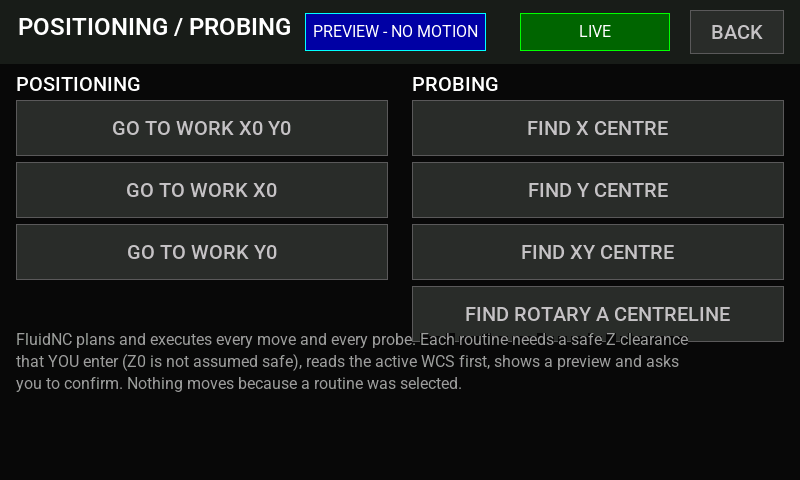
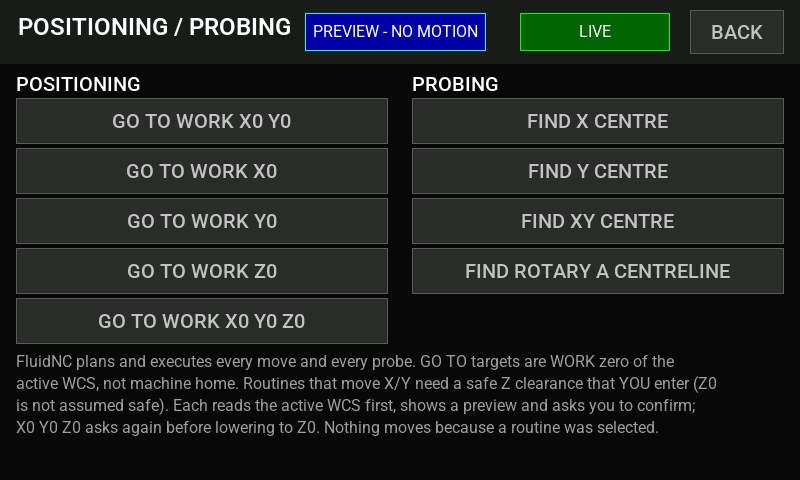
Built-in positioning: GO TO WORK Z0 and X0 Y0 Z0 (Instruction 011A)
New routines in the existing workflow (work coordinates of the selected
G54..G59 system, never machine home; no work offset written; A never sent):
- GO TO WORK Z0: its own CONFIRM before the single Z move; no clearance needed.
- GO TO WORK X0 Y0 Z0: separately entered clearance height above Z0, raise,
  CONTINUE, X/Y move, a SECOND confirmation, then Z0 (three separate commands).
- GO TO WORK X0, Y0 and X0 Y0 retained unchanged.

Positioning page: nine non-overlapping buttons (five positioning, four probing),
text updated. Tests (341 workflow checks) cover G55 with a non-zero G54, nothing
moving before each confirmation, exact commands, untouched offsets/XY/A,
clearance refusals and cancel at the second pause. Renderer: hitboxes and label
widths checked; preview frames added.

Ordinary firmware remains motion-disabled; the full-control image was not
flashed; nothing was transmitted to a controller.

Changed region(s): [[0.0, 0.1875, 1.0, 0.9062]]

diff --git a/test/host/test_jc_workflow.cpp b/test/host/test_jc_workflow.cpp
@@ -170,6 +170,74 @@ static void test_goto() {
     CHECK(b.count("G21 G90 G0 Y0.000") == 1);
 }
 
+// Instruction 011A: GO TO WORK Z0 and GO TO WORK X0 Y0 Z0 (work coordinates of the selected WCS, never machine home).
+static void test_goto_z_and_xyz() {
+    // Z0 alone: no clearance needed, its own confirmation before the move, nothing but a Z word is sent.
+    Rig z;
+    z.nc.wcs = 1;                                                      // G55 selected
+    z.nc.off[1][0] = 30; z.nc.off[1][1] = 40; z.nc.off[1][2] = -10;
+    z.nc.off[0][2] = 123.0f;                                           // G54 must stay untouched
+    z.nc.m[0] = 90; z.nc.m[1] = 100; z.nc.m[2] = 5;                    // work (60, 60, 15) in G55
+    JcWfParams q;                                                      // no clearance set
+    CHECK(z.prepare(JcWfKind::GoToZ, q));
+    CHECK(z.wf.state() == JcWfState::Planned && z.wf.wcs() == 1);
+    CHECK(z.moves_sent() == 0);
+    CHECK(z.wf.start(z.nc.now));
+    z.go();
+    CHECK(z.wf.state() == JcWfState::WaitOperator);
+    CHECK(z.moves_sent() == 0);                                         // waits for the operator first
+    z.run(2000);
+    CHECK(z.moves_sent() == 0);
+    z.wf.continue_after_pause(z.nc.now);
+    z.go();
+    CHECK(z.wf.state() == JcWfState::Done);
+    CHECK(z.moves_sent() == 1 && z.count("G21 G90 G0 Z0.000") == 1);
+    NEAR(z.nc.work(2), 0.0f, 0.06f); NEAR(z.nc.work(0), 60.0f, 0.06f); NEAR(z.nc.work(1), 60.0f, 0.06f);   // X / Y untouched
+    NEAR(z.nc.off[0][2], 123.0f, 0.0001f); NEAR(z.nc.off[1][2], -10.0f, 0.0001f);                            // offsets untouched
+    for (const std::string& t : z.sent_log) CHECK(t.find("G53") == std::string::npos && t.find("G92") == std::string::npos && t.find("G10") == std::string::npos && t.find('A') == std::string::npos && t.find("$H") == std::string::npos);
+
+    // XYZ: clearance first, XY, then a SECOND confirmation before Z0.
+    Rig r;
+    r.nc.off[0][0] = 10; r.nc.off[0][1] = 20; r.nc.off[0][2] = -5;
+    r.nc.m[0] = 70; r.nc.m[1] = 80; r.nc.m[2] = -5;                    // work (60, 60, 0)
+    JcWfParams p = base_params();                                      // clearance 20
+    CHECK(r.prepare(JcWfKind::GoToXYZ, p));
+    CHECK(r.moves_sent() == 0);
+    CHECK(r.wf.start(r.nc.now));
+    r.go();
+    CHECK(r.wf.state() == JcWfState::WaitOperator);                    // wait 1: clearance reached
+    CHECK(r.count("G21 G90 G0 Z20.000") == 1 && r.moves_sent() == 1);
+    r.wf.continue_after_pause(r.nc.now);
+    r.go();
+    CHECK(r.wf.state() == JcWfState::WaitOperator);                    // wait 2: XY done, Z0 NOT yet sent
+    CHECK(r.count("G21 G90 G0 X0.000 Y0.000") == 1);
+    CHECK(r.count("G21 G90 G0 Z0.000") == 0 && r.moves_sent() == 2);
+    NEAR(r.nc.work(0), 0.0f, 0.06f); NEAR(r.nc.work(1), 0.0f, 0.06f); NEAR(r.nc.work(2), 20.0f, 0.06f);
+    r.run(3000);
+    CHECK(r.count("G21 G90 G0 Z0.000") == 0);                           // still waiting
+    r.wf.continue_after_pause(r.nc.now);
+    r.go();
+    CHECK(r.wf.state() == JcWfState::Done);
+    CHECK(r.count("G21 G90 G0 Z0.000") == 1 && r.moves_sent() == 3);
+    NEAR(r.nc.work(0), 0.0f, 0.06f); NEAR(r.nc.work(1), 0.0f, 0.06f); NEAR(r.nc.work(2), 0.0f, 0.06f);
+    NEAR(r.nc.off[0][0], 10.0f, 0.0001f); NEAR(r.nc.off[0][2], -5.0f, 0.0001f);
+    for (const std::string& t : r.sent_log) CHECK(t.find("G53") == std::string::npos && t.find("G92") == std::string::npos && t.find("G10") == std::string::npos && t.find('A') == std::string::npos);
+
+    // Refusals: XYZ needs a separately specified clearance that is above Z0; cancel stops with nothing further sent.
+    Rig n1; JcWfParams none;
+    CHECK(!n1.prepare(JcWfKind::GoToXYZ, none));
+    Rig n2; JcWfParams low = base_params(); low.clearance_z = 0.0f;
+    CHECK(!n2.prepare(JcWfKind::GoToXYZ, low));
+    Rig n3; JcWfParams neg = base_params(); neg.clearance_z = -3.0f;
+    CHECK(!n3.prepare(JcWfKind::GoToXYZ, neg));
+    Rig c; c.nc.m[0] = 70; c.nc.m[1] = 80; c.nc.m[2] = -5;
+    CHECK(c.prepare(JcWfKind::GoToXYZ, p)); c.wf.start(c.nc.now); c.go(); c.wf.continue_after_pause(c.nc.now); c.go();
+    CHECK(c.wf.state() == JcWfState::WaitOperator);
+    c.wf.cancel(c.nc.now); c.run(2000);
+    CHECK(c.count("G21 G90 G0 Z0.000") == 0);
+    CHECK(strcmp(jc_wf_title(JcWfKind::GoToZ), "GO TO WORK Z0") == 0 && strcmp(jc_wf_title(JcWfKind::GoToXYZ), "GO TO WORK X0 Y0 Z0") == 0);
+}
+
 static void test_goto_refusals() {
     JcWfParams p = base_params();
     {   // no clearance: not started, nothing sent
@@ -753,6 +821,7 @@ static void test_tlo_policy_and_gate() {
 int main() {
     test_calc_functions();
     test_goto();
+    test_goto_z_and_xyz();
     test_goto_refusals();
     test_find_x_inside();
     test_find_x_outside_and_y();

diff --git a/src/jc8048w550/JcScreenWorkflow.cpp b/src/jc8048w550/JcScreenWorkflow.cpp
@@ -24,15 +24,15 @@ constexpr ui::Rect kMoveCentre { 16, 340, 380, 52 };
 constexpr ui::Rect kSetOrigin { 404, 340, 380, 52 };
 
 ui::Rect list_button(uint8_t i) {
-    if (i < 3) return { 16, static_cast<int16_t>(100 + i * 62), 372, 56 };
-    return { 412, static_cast<int16_t>(100 + (i - 3) * 62), 372, 56 };
+    if (i < 5) return { 16, static_cast<int16_t>(98 + i * 50), 372, 46 };
+    return { 412, static_cast<int16_t>(98 + (i - 5) * 50), 372, 46 };
 }
 ui::Rect param_rect(uint8_t i) {
     const uint8_t col = i / 7;
     return { static_cast<int16_t>(16 + col * 392), static_cast<int16_t>(98 + (i % 7) * 36), 376, 34 };
 }
 
-const JcWfKind kKinds[7] = { JcWfKind::GoToXY, JcWfKind::GoToX, JcWfKind::GoToY, JcWfKind::FindX, JcWfKind::FindY, JcWfKind::FindXY, JcWfKind::FindRotary };
+const JcWfKind kKinds[9] = { JcWfKind::GoToXY, JcWfKind::GoToX, JcWfKind::GoToY, JcWfKind::GoToZ, JcWfKind::GoToXYZ, JcWfKind::FindX, JcWfKind::FindY, JcWfKind::FindXY, JcWfKind::FindRotary };
 
 uint8_t params_for(JcWfKind k, P out[14]) {
     uint8_t n = 0;
@@ -40,7 +40,8 @@ uint8_t params_for(JcWfKind k, P out[14]) {
     if (k == JcWfKind::ToolMeasure) { out[n++] = P::Search; out[n++] = P::Feed; out[n++] = P::Retract; return n; }
     if (k == JcWfKind::ToolChange) { out[n++] = P::Clear; out[n++] = P::ToolNum; out[n++] = P::Search; out[n++] = P::Feed; out[n++] = P::Retract; return n; }
     out[n++] = P::Clear;
-    if (k == JcWfKind::GoToXY || k == JcWfKind::GoToX || k == JcWfKind::GoToY) return n;
+    if (k == JcWfKind::GoToZ) { n = 0; return n; }   // no parameters: Z0 of the active WCS
+    if (jc_wf_is_goto(k)) return n;
     out[n++] = P::Search; out[n++] = P::Feed; out[n++] = P::Retract; out[n++] = P::Tip;
     if (k != JcWfKind::FindRotary) { out[n++] = P::Feature; out[n++] = P::Expected; }
     out[n++] = P::Timeout; out[n++] = P::Slow; out[n++] = P::SlowFeed;
@@ -126,10 +127,11 @@ void JcWorkflowScreen::on_enter() {
 void JcWorkflowScreen::draw_list() {
     ui::text(sv.display, 16, 72, "POSITIONING", FontId::Button20, WHITE, ui::kBg);
     ui::text(sv.display, 412, 72, "PROBING", FontId::Button20, WHITE, ui::kBg);
-    for (uint8_t i = 0; i < 7; ++i) ui::button(sv.display, list_button(i), jc_wf_title(kKinds[i]));
-    ui::wrap(sv.display, { 16, 330, 768, 70 },
-             "FluidNC plans and executes every move and every probe. Each routine needs a safe Z clearance that YOU enter "
-             "(Z0 is not assumed safe), reads the active WCS first, shows a preview and asks you to confirm. Nothing "
+    for (uint8_t i = 0; i < 9; ++i) ui::button(sv.display, list_button(i), jc_wf_title(kKinds[i]));
+    ui::wrap(sv.display, { 16, 352, 768, 100 },
+             "FluidNC plans and executes every move and every probe. GO TO targets are WORK zero of the active WCS, not machine "
+             "home. Routines that move X/Y need a safe Z clearance that YOU enter (Z0 is not assumed safe). Each reads the "
+             "active WCS first, shows a preview and asks you to confirm; X0 Y0 Z0 asks again before lowering to Z0. Nothing "
              "moves because a routine was selected.",
              FontId::Body16, ui::kMuted, ui::kBg);
 }
@@ -210,8 +212,9 @@ void JcWorkflowScreen::draw_active() {
             if (row < 4) _lines[2 + row].draw(sv.display, { 28, static_cast<int16_t>(160 + row * 28), 744, 24 }, text, FontId::Body16, color, ui::kPanel);
             ++row;
         };
-        if (k == JcWfKind::GoToXY || k == JcWfKind::GoToX || k == JcWfKind::GoToY) {
+        if (jc_wf_is_goto(k)) {
             put("Arrived. FluidNC reported Idle at the work target.", ui::kGood);
+            put("Work zero of the active WCS, not machine home. A axis and work offsets unchanged.", ui::kMuted);
         }
         if (r.x.ok) {
             snprintf(line, sizeof(line), "X centre: machine %.3f   work %.3f   size %.3f", static_cast<double>(r.x.centre), static_cast<double>(w.work_coord(0, r.x.centre)), static_cast<double>(r.x.size));
@@ -398,7 +401,7 @@ void JcWorkflowScreen::on_custom_confirm() {
 void JcWorkflowScreen::on_touch(uint16_t x, uint16_t y) {
     const uint32_t now = millis();
     if (_mode == Mode::List) {
-        for (uint8_t i = 0; i < 7; ++i) {
+        for (uint8_t i = 0; i < 9; ++i) {
             if (ui::hit(list_button(i), x, y)) {
                 _kind = kKinds[i];
                 _mode = Mode::Setup;

diff --git a/test/host/ui_render.cpp b/test/host/ui_render.cpp
@@ -473,6 +473,12 @@ static void pure_checks() {
 #endif
 
     // Worst-case strings against their containers.
+    {   // Instruction 011A: the new GO TO wait-step labels must fit the progress line (no clipping)
+        const char* const labels[] = { "Step 4 of 8: CONFIRM: Z to work Z0 (active WCS)", "Step 8 of 12: XY reached. CONFIRM to lower to work Z0" };
+        bool fits = true;
+        for (const char* l : labels) if (text_width(FontId::Body16, l) > 744) { fits = false; printf("             too wide: %s\n", l); }
+        check(fits, "the new GO TO wait-step labels fit the progress line");
+    }
     {   // the RESET dialog on the Files page (Instruction 010A): every line must fit, none may be clipped
         const char* const reset_lines[] = { kJcJobStopText, "The job will NOT continue and cannot be resumed from this pendant.",
                                             "Motion stops; an alarm, unlock or re-homing may follow.",
@@ -1337,7 +1343,13 @@ static void scenarios() {
         JcWorkflowScreen wfs(w.sv);
         wfs.enter();
         check_frame(w.gfx, "workflow_list", false);
-        touch_center(wfs, ui::Rect { 412, 100, 372, 56 });          // FIND X CENTRE
+        {   // Instruction 011A: nine routines, five positioning (left) and four probing (right); no overlap, all >= 38 px
+            std::vector<ui::Rect> rs;
+            for (int i = 0; i < 5; ++i) rs.push_back(ui::Rect { 16, static_cast<int16_t>(98 + i * 50), 372, 46 });
+            for (int i = 0; i < 4; ++i) rs.push_back(ui::Rect { 412, static_cast<int16_t>(98 + i * 50), 372, 46 });
+            check_hitboxes(w.gfx, "workflow list (9 routines)", rs);
+        }
+        touch_center(wfs, ui::Rect { 412, 98, 372, 46 });           // FIND X CENTRE
         check_frame(w.gfx, "workflow_setup_x", false);
         touch_center(wfs, ui::Rect { 198, 408, 586, 52 });          // PREPARE
         w.wf_run(600);
@@ -1364,6 +1376,38 @@ static void scenarios() {
         wfs.tick(g_stub_millis + 300);
         check(w.wf.result().readback_ok, "the offset was read back from the simulated FluidNC and matches");
         check_frame(w.gfx, "workflow_origin_set", false);
+        {   // Instruction 011A: GO TO WORK Z0 and GO TO WORK X0 Y0 Z0
+            Rig z;
+            z.status("Idle", 50, 50, 15, 0);
+            z.advance(500);
+            z.nc.m[0] = 50; z.nc.m[1] = 50; z.nc.m[2] = 15;
+            JcWorkflowScreen zs(z.sv);
+            zs.enter();
+            touch_center(zs, ui::Rect { 16, 248, 372, 46 });          // GO TO WORK Z0
+            check_frame(z.gfx, "workflow_setup_z0", false);
+            touch_center(zs, ui::Rect { 198, 408, 586, 52 });          // PREPARE
+            z.wf_run(600);
+            zs.tick(g_stub_millis);
+            check(z.wf.state() == JcWfState::Planned && z.wf.kind() == JcWfKind::GoToZ, "GO TO WORK Z0 is planned without a clearance");
+            check(z.wire.find("G21") == std::string::npos, "nothing moves on selection or preview");
+            check_frame(z.gfx, "workflow_preview_z0", false);
+            touch_center(zs, ui::Rect { 258, 408, 250, 52 });          // START
+            check_frame(z.gfx, "workflow_start_confirm_z0", true);
+            touch_center(zs, ui::kDialogConfirm);
+            z.wf_run(900);
+            zs.tick(g_stub_millis);
+            check(z.wf.state() == JcWfState::WaitOperator && z.wire.find("G21") == std::string::npos, "Z0 waits for its own confirmation before any move");
+            check_frame(z.gfx, "workflow_z0_wait", false);
+
+            Rig x;
+            x.status("Idle", 50, 50, -5, 0);
+            x.advance(500);
+            x.nc.m[0] = 50; x.nc.m[1] = 50; x.nc.m[2] = -5;
+            JcWorkflowScreen xs(x.sv);
+            xs.enter();
+            touch_center(xs, ui::Rect { 16, 298, 372, 46 });          // GO TO WORK X0 Y0 Z0
+            check_frame(x.gfx, "workflow_setup_xyz", false);
+        }
         // a failed contact
         Rig f;
         f.status("Idle", 50, 50, -5, 0);

diff --git a/src/jc8048w550/JcWorkflow.hpp b/src/jc8048w550/JcWorkflow.hpp
@@ -31,13 +31,15 @@
 
 namespace jc8048w550 {
 
-enum class JcWfKind : uint8_t { GoToXY, GoToX, GoToY, FindX, FindY, FindXY, FindRotary, ToolReference, ToolMeasure, ToolChange };
+enum class JcWfKind : uint8_t { GoToXY, GoToX, GoToY, GoToZ, GoToXYZ, FindX, FindY, FindXY, FindRotary, ToolReference, ToolMeasure, ToolChange };
 
 inline const char* jc_wf_title(JcWfKind k) {
     switch (k) {
         case JcWfKind::GoToXY: return "GO TO WORK X0 Y0";
         case JcWfKind::GoToX: return "GO TO WORK X0";
         case JcWfKind::GoToY: return "GO TO WORK Y0";
+        case JcWfKind::GoToZ: return "GO TO WORK Z0";
+        case JcWfKind::GoToXYZ: return "GO TO WORK X0 Y0 Z0";
         case JcWfKind::FindX: return "FIND X CENTRE";
         case JcWfKind::FindY: return "FIND Y CENTRE";
         case JcWfKind::FindXY: return "FIND XY CENTRE";
@@ -47,6 +49,12 @@ inline const char* jc_wf_title(JcWfKind k) {
         case JcWfKind::ToolChange: return "MANUAL TOOL CHANGE + MEASURE";
     }
     return "?";
+}
+
+// Built-in positioning actions. All targets are WORK coordinates of the currently selected G54..G59 system (never
+// machine home / G53); the A axis is never commanded.
+inline bool jc_wf_is_goto(JcWfKind k) {
+    return k == JcWfKind::GoToXY || k == JcWfKind::GoToX || k == JcWfKind::GoToY || k == JcWfKind::GoToZ || k == JcWfKind::GoToXYZ;
 }
 
 struct JcWfParams {
@@ -80,7 +88,10 @@ struct JcWfParams {
 
 inline bool jc_wf_validate(JcWfKind kind, const JcWfParams& p, char* why, size_t size) {
     auto bad = [&](const char* m) { snprintf(why, size, "%s", m); return false; };
-    const bool goto_kind = kind == JcWfKind::GoToXY || kind == JcWfKind::GoToX || kind == JcWfKind::GoToY;
+    const bool goto_kind = jc_wf_is_goto(kind);
+    if (kind == JcWfKind::GoToXYZ && p.clearance_set && isfinite(p.clearance_z) && !(p.clearance_z > 0.0f))
+        return bad("the clearance height must be ABOVE work Z0 (it is separate from Z0)");
+    if (kind == JcWfKind::GoToZ) return true;   // a Z-only move needs no clearance; the operator confirms the move itself
     if (!p.clearance_set || !isfinite(p.clearance_z)) {
         if (goto_kind || p.feature == JcFeatureKind::Outside || kind == JcWfKind::FindRotary)
             return bad("set a safe Z clearance (work Z): Z0 is not assumed safe");

diff --git a/src/jc8048w550/JcWorkflowPlans.hpp b/src/jc8048w550/JcWorkflowPlans.hpp
@@ -66,11 +66,22 @@ inline void JcWorkflow::add_pair(uint8_t axis, const char* tag, uint8_t slot_hi,
 inline bool JcWorkflow::build_plan() {
     _n = 0;
     _action = false;
-    const bool goto_kind = _kind == JcWfKind::GoToXY || _kind == JcWfKind::GoToX || _kind == JcWfKind::GoToY;
+    const bool goto_kind = jc_wf_is_goto(_kind);
     _probe_z = _status.wpos_valid ? _status.wpos[2] : 0.0f;
     _y_start = _status.wpos_valid ? _status.wpos[1] : 0.0f;
     add_check(JcWfCheck::StatusIdle, "machine Idle");
     add_check(JcWfCheck::SpindleOff, "spindle stopped (never started here)");
+    if (_kind == JcWfKind::GoToZ) {
+        // Z only: work Z0 of the active WCS (not machine home). XY and A are never commanded.
+        if (!_status.wpos_valid) { snprintf(_reason, sizeof(_reason), "work position unknown"); return false; }
+        add_check(JcWfCheck::WcsUnchanged, "active WCS unchanged");
+        add_wait("CONFIRM: Z to work Z0 (active WCS)");
+        add_check(JcWfCheck::StatusIdle, "machine still Idle");
+        add_check(JcWfCheck::SpindleOff, "spindle still stopped");
+        add_check(JcWfCheck::WcsUnchanged, "active WCS still unchanged");
+        add_goto_z(0.0f, "move to work Z0");
+        return true;
+    }
     if (goto_kind) {
         add_check(JcWfCheck::ClearanceNotBelow, "clearance not below the current Z");
         if (!_status.wpos_valid) { snprintf(_reason, sizeof(_reason), "work position unknown"); return false; }
@@ -84,6 +95,14 @@ inline bool JcWorkflow::build_plan() {
         m.cmd = jc_goto_work_xy(hx, 0.0f, hy, 0.0f);
         m.motion = true;
         m.mask = static_cast<uint8_t>((hx ? 1 : 0) | (hy ? 2 : 0));
+        if (_kind == JcWfKind::GoToXYZ) {
+            // XY is established above the clearance height; Z0 needs its OWN confirmation.
+            add_wait("XY reached. CONFIRM to lower to work Z0");
+            add_check(JcWfCheck::StatusIdle, "machine still Idle");
+            add_check(JcWfCheck::SpindleOff, "spindle still stopped");
+            add_check(JcWfCheck::WcsUnchanged, "active WCS unchanged");
+            add_goto_z(0.0f, "lower to work Z0");
+        }
         return true;
     }
     const bool tool_kind = _kind == JcWfKind::ToolReference || _kind == JcWfKind::ToolMeasure || _kind == JcWfKind::ToolChange;

diff --git a/src/jc8048w550/JcScreenMacros.cpp b/src/jc8048w550/JcScreenMacros.cpp
@@ -49,7 +49,7 @@ void JcMacrosScreen::on_draw() {
 #if JC_AUTHORITY
     ui::button(sv.display, kRoutines, "POSITIONING / PROBING", ui::Btn::Selected);
     ui::wrap(sv.display, { 552, 380, 232, 90 },
-             "Built-in routines: go to work X0 Y0, find an X / Y centre, find a rotary A centreline.",
+             "Built-in routines: go to work X0 / Y0 / Z0 / X0 Y0 / X0 Y0 Z0, find an X / Y centre, find a rotary A centreline.",
              FontId::Body16, ui::kMuted, ui::kBg);
 #else
     ui::wrap(sv.display, { 552, 306, 232, 160 },

diff --git a/docs/development/jc-feature-status.md b/docs/development/jc-feature-status.md
@@ -26,6 +26,7 @@ it has not been flashed to any device.
 | Probing page (Z tool, edge X-/X+/Y-/Y+, params, probe pin status, preflight) | Preview | A axis never probed; probe pin comes from the controller `Pn:` field |
 | Work offsets (G54-G59, machine/work, zero, set, WCO) | Preview | Unknown WCO shown as `--`, never 0; active WCS unavailable without `$G` |
 | Files and jobs (Instruction 010) | Host-tested + renderer-checked; **live read-only SD listing** (`$SD/Status`, `$SD/List`) works in the ordinary image; hold and reset are the only job controls (simulated in that image); **no START and no RESUME exist (Instruction 010A: programs are started from the PC)** | The controller's SD card only (never the pendant's flash). Selected file, size, folders, scrolling, missing card / empty / error states. Job state and percentage are the controller's own `SD:` report. Listing format checked against the real controller's v4.1.1 reply (59 files, 2 folders reconstructed); names with spaces are listed normally; nothing on the pendant starts a file |
+| Built-in positioning (Instruction 011A): GO TO WORK X0 / Y0 / X0 Y0 / **Z0** / **X0 Y0 Z0** | Host-tested against a simulated FluidNC + renderer-checked; rehearsed (not executed) in the ordinary image | Work coordinates of the selected G54..G59 system, never machine home. Combined XYZ: clearance first, XY, then a separate confirmation before Z0. A axis never commanded, no offset written |
 | Macros | **Disabled** (Instruction 010A) | User macros cannot be run or edited from the pendant until the owner defines their command permissions; stored slots can be cleared. Built-in positioning routines are separate and unaffected |
 | Tools (Instruction 010): controller T word and `[TLO:]` from `$G` / `$#`, reference tool, manual tool change + tool-length measurement, TLO apply (G43.1) / clear (G49) with readback | Host-tested against a simulated FluidNC; routines are rehearsed (not executed) in the ordinary image | No ATC or M6 is assumed or ever sent. Probe contact is verified by hand before any probing move. Tool length compensation is separate from work zero. G43.1/G49 support is unverified on the real controller until a readback matches |
 | Settings: connections, display (brightness PWM, decimals, reference), jog presets, machine, calibration, Wi-Fi setup | Uploaded | Settings persisted as a versioned+CRC NVS blob (Host-tested encode/decode) |

diff --git a/docs/development/jc-live-jog-readiness.md b/docs/development/jc-live-jog-readiness.md
@@ -862,3 +862,17 @@ from the approved PC control interface; FluidNC executes them from its SD card; 
 
 The renderer output is a rendering of the page code, not a photograph. No firmware was uploaded for this instruction (the image on the board is still the 010 build, which still has
 the old START / CYCLE START buttons until the owner authorizes an upload). The full-control image was not flashed and no machine-changing command was transmitted.
+
+## 17. Built-in positioning: GO TO WORK Z0 and X0 Y0 Z0 (Instruction 011A)
+
+All targets are WORK coordinates of the currently selected G54..G59 system (read with `$G` / `$#` before the preview). They are never machine home (no `$H`, no G53) and no work offset is written (no G10 / G92; the WCS-unchanged check runs before every move).
+
+| Routine | Plan |
+|---|---|
+| GO TO WORK X0, Y0, X0 Y0 (retained) | clearance first, CONTINUE, then the XY move |
+| **GO TO WORK Z0** | checks, **its own CONFIRM** (the move is not sent before it), re-checks, one `G21 G90 G0 Z0.000`; no clearance needed |
+| **GO TO WORK X0 Y0 Z0** | needs a separately entered clearance height **above work Z0**; raise to clearance, CONTINUE, X/Y move (`G21 G90 G0 X0.000 Y0.000`), **second CONFIRM**, re-checks, then `G21 G90 G0 Z0.000` |
+
+Only Z and X/Y words are ever sent, so the A axis keeps its position. The combined routine is three separate commands (the one command policy accepts only Z alone or X/Y), each verified by FluidNC's Idle report and the reached work position. CANCEL at either pause sends nothing further. The ordinary firmware still rehearses these on the simulated controller only; the full-control image was not flashed and nothing was transmitted to a machine.
+
+Tests: `test_jc_workflow.cpp` (341 checks) covers G55 with a non-zero G54, nothing moving before the confirmations, exactly the expected commands (no G53 / G92 / G10 / A), offsets untouched, X/Y untouched by Z0, refusal of a missing / zero / negative clearance for XYZ, and cancel at the second pause. The renderer checks nine non-overlapping list buttons (>= 38 px) and that the new wait labels fit.

diff --git a/docs/development/jc-commissioning-checklist.md b/docs/development/jc-commissioning-checklist.md
@@ -33,6 +33,11 @@ functionally verified, and the owner explicitly authorizes the flash. FluidNC is
 - [ ] Outside feature (boss) X / Y; contact timeout and no-contact reported; stop with cancel.
 - [ ] FIND ROTARY A CENTRELINE on a reference cylinder: Y / Z centreline and tilt plausible; A calibration unchanged.
 
+## 5a. GO TO WORK positioning (full-control image, spindle removed, owner authorization first)
+- [ ] GO TO WORK Z0: nothing moves until the explicit CONFIRM; Z reaches work Z0 of the ACTIVE WCS (check with G55 selected), X/Y/A and the offsets in `$#` are unchanged.
+- [ ] GO TO WORK X0 Y0 Z0: enter a clearance above Z0; Z rises, X/Y move, then a SECOND confirmation is required before Z lowers to Z0; CANCEL at that pause leaves Z at the clearance.
+- [ ] Work zero is not machine home: the machine position at work X0 Y0 Z0 differs from the homed position unless the origin was set there.
+
 ## 6. SD card and jobs (ordinary image first, then full-control)
 - [ ] Ordinary image, real controller: FILES > REFRESH SD LIST shows the files that are really on the controller's SD card (compare with the card / WebUI). The parser matches the v4.1.1 reply read from this controller (relative names, folder depth as leading spaces, `[/sd Free: Used: Total:]` summary). Record any difference.
 - [ ] Remove the card: the page says NO SD CARD (error:60); empty card: SD CARD HAS NO FILES; the pendant's own flash files never appear.
